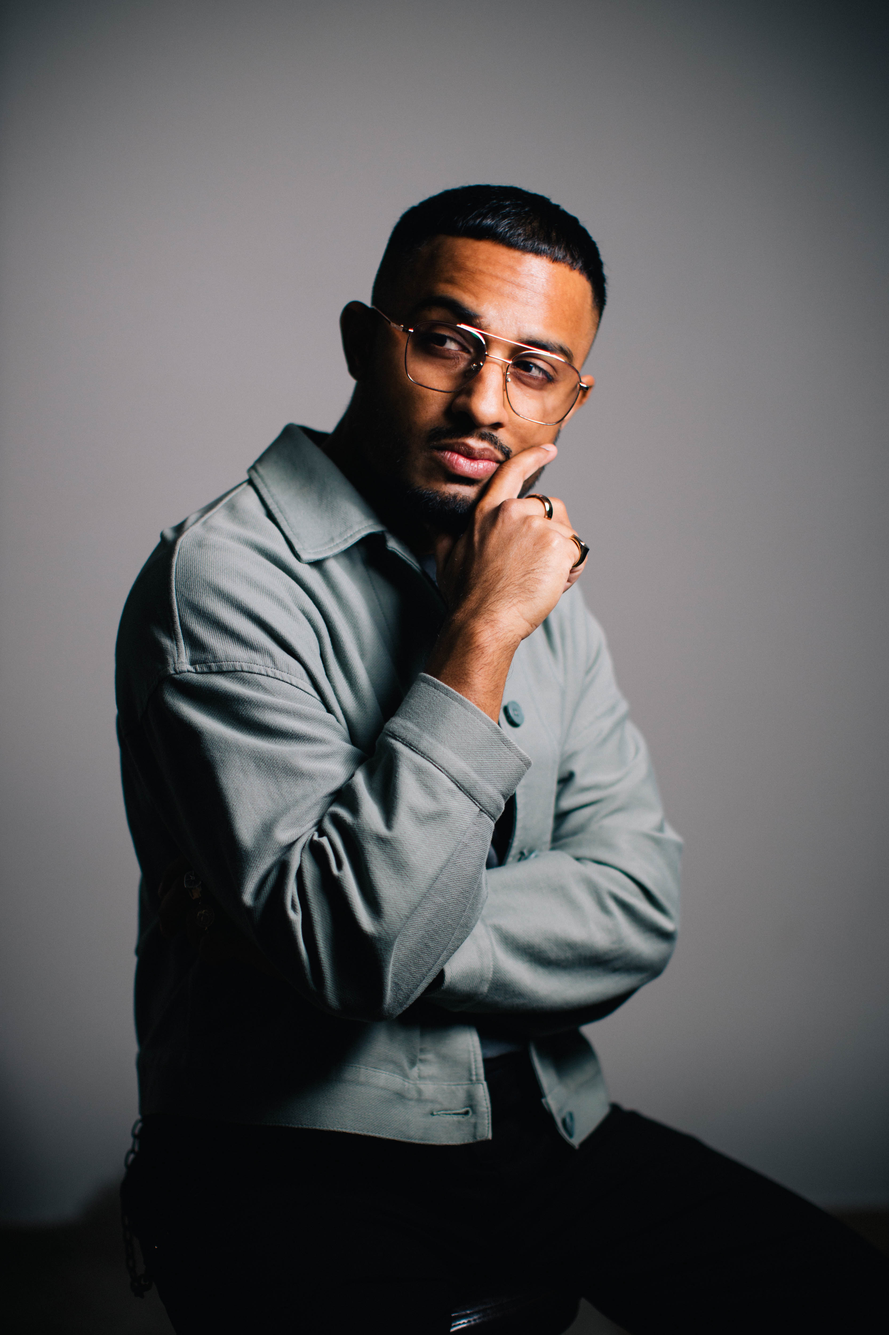
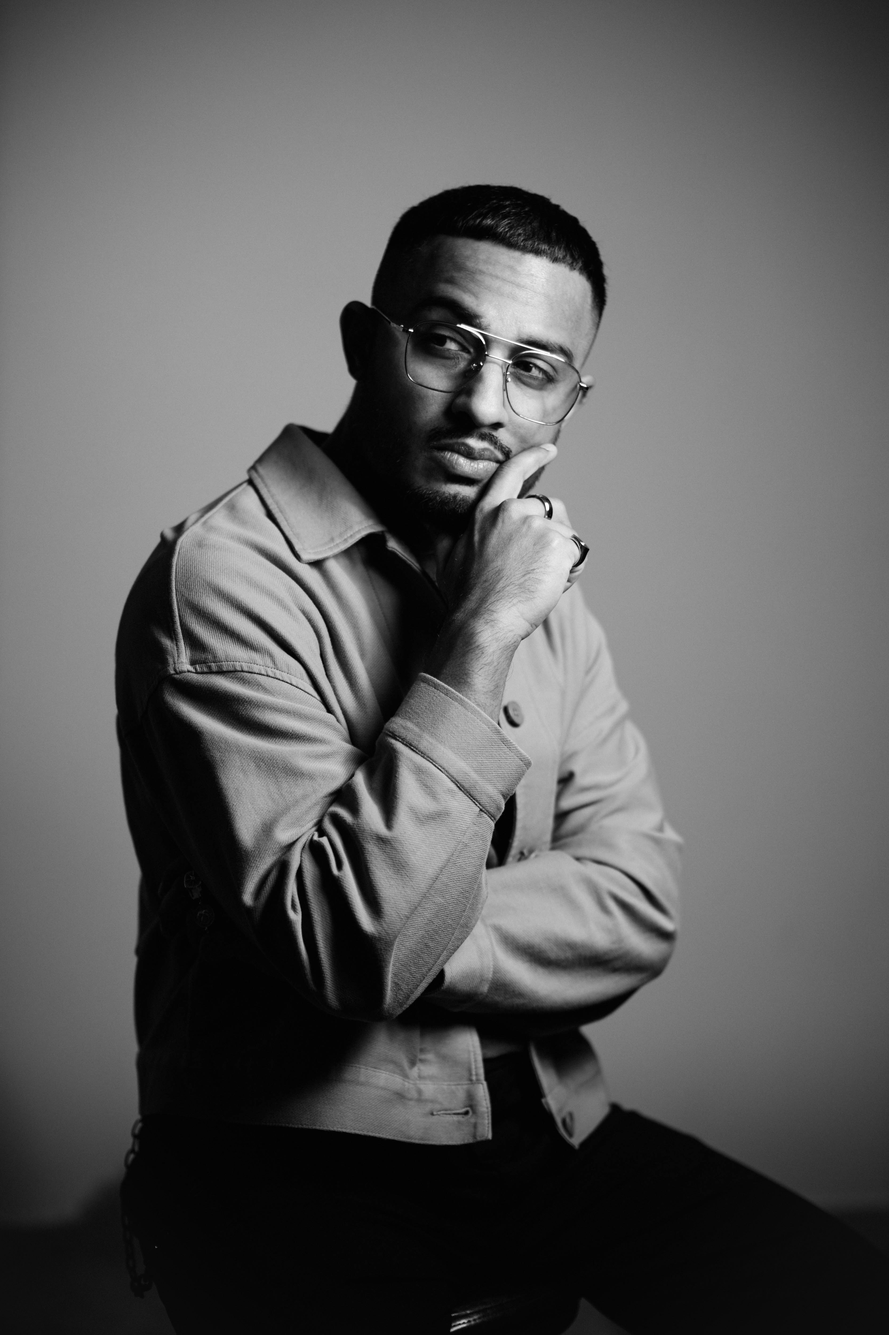
update speaker images

Changed region(s): [[0.4368, 0.156, 0.6865, 0.5616]]

diff --git a/pages/yls/_speakers.js b/pages/yls/_speakers.js
@@ -92,7 +92,7 @@ const Speakers = () => {
         </StyledHeading>
       </Container>
       <CardContainer>
-        <Cards name="Eddryll Teo" src="/images/jpg/john.jpg">
+        <Cards name="Eddryll Teo" src="/images/jpg/eddryll.jpg">
           Eddyrll is currently the Head of MPU unit in MCKL. He has the burden to disciple the young
           generation of Malaysians to know Jesus as their Lord and Saviour. He founded Malaysian
           Christian Memes and Malaysian Christian Talks as means to disciple alongside with his
@@ -108,7 +108,7 @@ const Speakers = () => {
           has been his lifelong passion to do his small part in bringing the reality of God to the
           world outside the church, particularly the entertainment industry.
         </Cards>
-        <Cards name="Agnel Raj" src="/images/jpg/john.jpg">
+        <Cards name="Agnel Raj" src="/images/jpg/agnel.jpg">
           Agnel is currently leading the Culture & Transformation team in Maxis Malaysia. Prior to
           this, he was the HR Business Partner for the sales and service division of Maxis & spent
           almost 8 years as a Principal Consultant in one of the largest HR consulting firms in

diff --git a/pages/yls/_special-card.js b/pages/yls/_special-card.js
@@ -51,7 +51,6 @@ const SpeakerContent = styled.div`
 const StyledImage = styled(Image)`
   border-radius: 2.5rem;
   object-fit: cover;
-  filter: grayscale(100%);
 `
 const ImageWrapper = styled.div`
   @media (max-width: 480px) {

diff --git a/components/Cards.js b/components/Cards.js
@@ -57,7 +57,6 @@ const SpeakerContent = styled.div`
 const StyledImage = styled(Image)`
   border-radius: 2.5rem;
   object-fit: cover;
-  filter: grayscale(100%);
 `
 
 const HoverText = styled(Text)`
